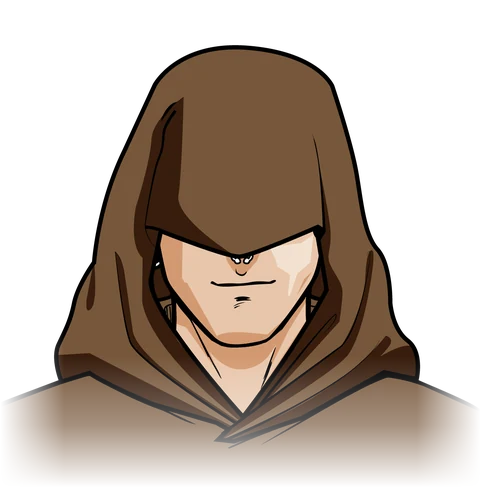
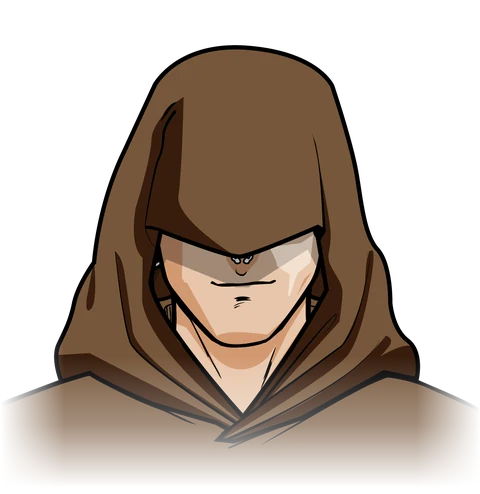
Regenerar las ilustraciones web de Yisus y Matías
Se vuelven a generar con web/tools/procesar-equipo.py las tres capas
(capucha, manos, rostro) de los dos a partir de los originales
retocados. En Yisus el script pasa a usar los archivos nuevos: el
fotograma de manos es ahora "Yisus capucha manos.png" (antes
"Mesa de trabajo 16.png") y el rostro "Yisus sin capucha.png" (antes
"Yisus sin capucha (1).png", que ya no existe).

Mismo tamaño (480×494) y mismo difuminado de hombros que antes.

Changed region(s): [[0.3125, 0.4555, 0.6875, 0.5769]]

diff --git a/web/tools/procesar-equipo.py b/web/tools/procesar-equipo.py
@@ -39,8 +39,8 @@ CALIDAD_WEBP = 88
 PERSONAS = {
     "yisus": ("yisus", {
         "capucha": "Yisus capucha.png",
-        "manos": "Mesa de trabajo 16.png",
-        "rostro": "Yisus sin capucha (1).png",
+        "manos": "Yisus capucha manos.png",
+        "rostro": "Yisus sin capucha.png",
     }),
     "matias": ("matias", {
         "capucha": "Matías con capucha.png",
